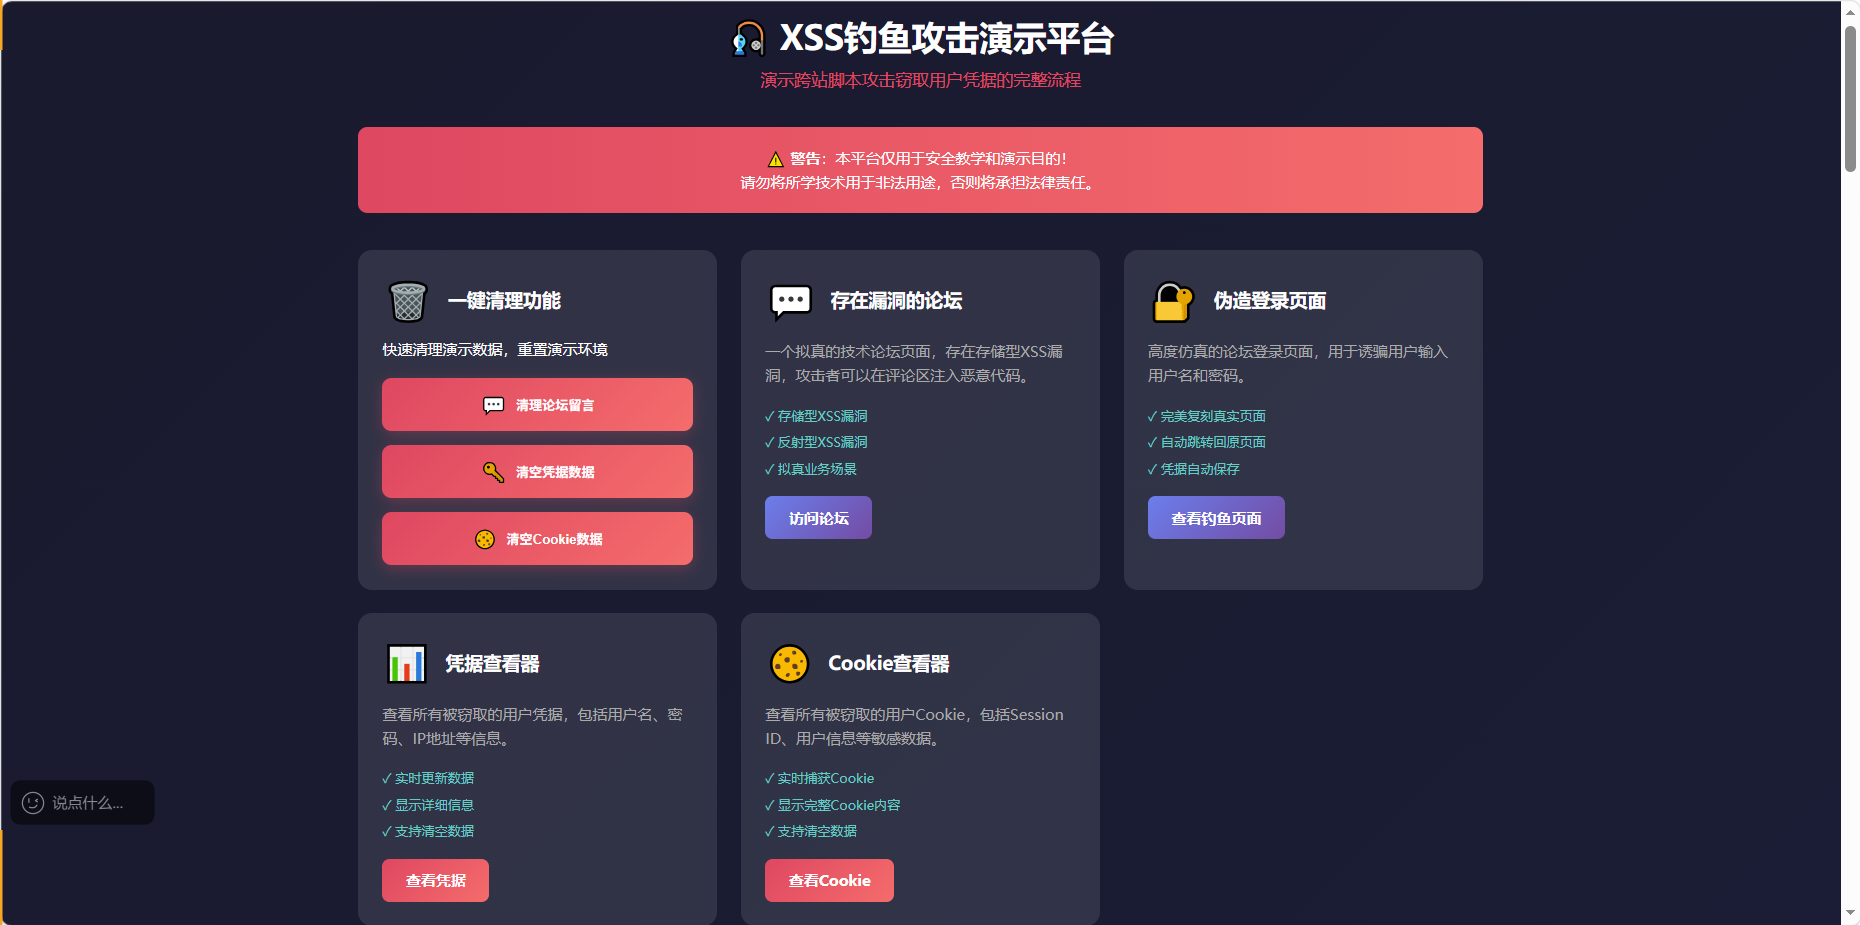
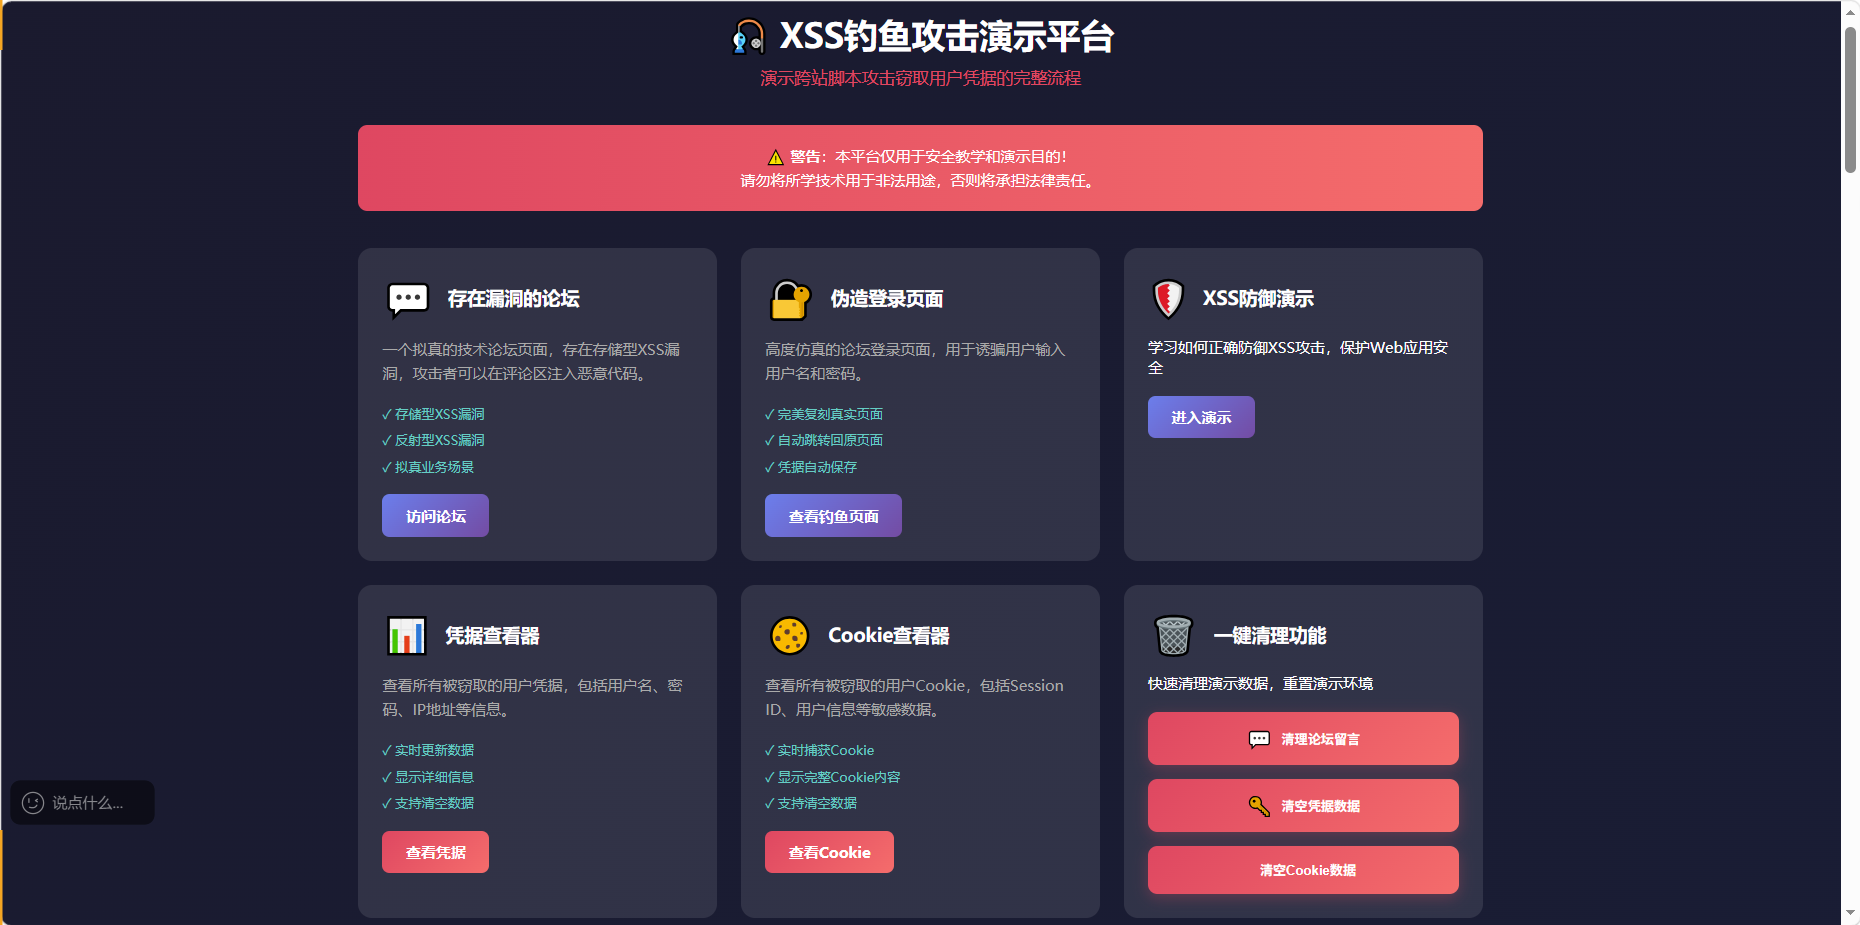
更新了说明文档图片

diff --git a/docs/DEFENSE_DEMO.md b/docs/DEFENSE_DEMO.md
@@ -1,5 +1,13 @@
 # 🛡️ XSS防御演示模块
 
+## 📸 模块截图
+
+### 防御演示主页面
+![防御演示主页面](../img/defense_demo1.png)
+
+### 防御方法对比
+![防御方法对比](../img/defense_demo2.png)
+
 ## 📋 模块概述
 
 XSS防御演示模块提供了全面的防御方案教学，帮助开发者了解如何正确防御XSS攻击。

diff --git a/README.md b/README.md
@@ -24,13 +24,16 @@
 #### Cookie查看页面
 ![Cookie查看](img/view_cookies.png)
 
-## ✨ 功能特性
+#### XSS防御演示页面
+![防御演示1](img/defense_demo1.png)
 
+![防御演示2](img/defense_demo2.png)
+
+## ✨ 功能特性
 
 - 🛡️ **XSS防御演示** - 学习如何正确防御XSS攻击
 - 🎣 **钓鱼攻击演示** - 窃取用户账号密码
 - 🍪 **Cookie窃取演示** - 窃取用户会话信息
-
 - 📝 **存储型XSS** - 留言板评论功能
 - 🔍 **反射型XSS** - 搜索功能演示
 - 🎨 **拟真界面** - 模拟真实技术论坛

diff --git a/img/README.md b/img/README.md
@@ -15,6 +15,8 @@
 | login.png | 钓鱼登录页面截图 | 1920x1080 |
 | view_credentials.png | 凭据查看页面截图 | 1920x1080 |
 | view_cookies.png | Cookie查看页面截图 | 1920x1080 |
+| defense_demo1.png | XSS防御演示页面截图1 | 1920x1080 |
+| defense_demo2.png | XSS防御演示页面截图2 | 1920x1080 |
 | phishing_demo.png | 钓鱼平台功能演示截图 | 1920x1080 |
 
 ---